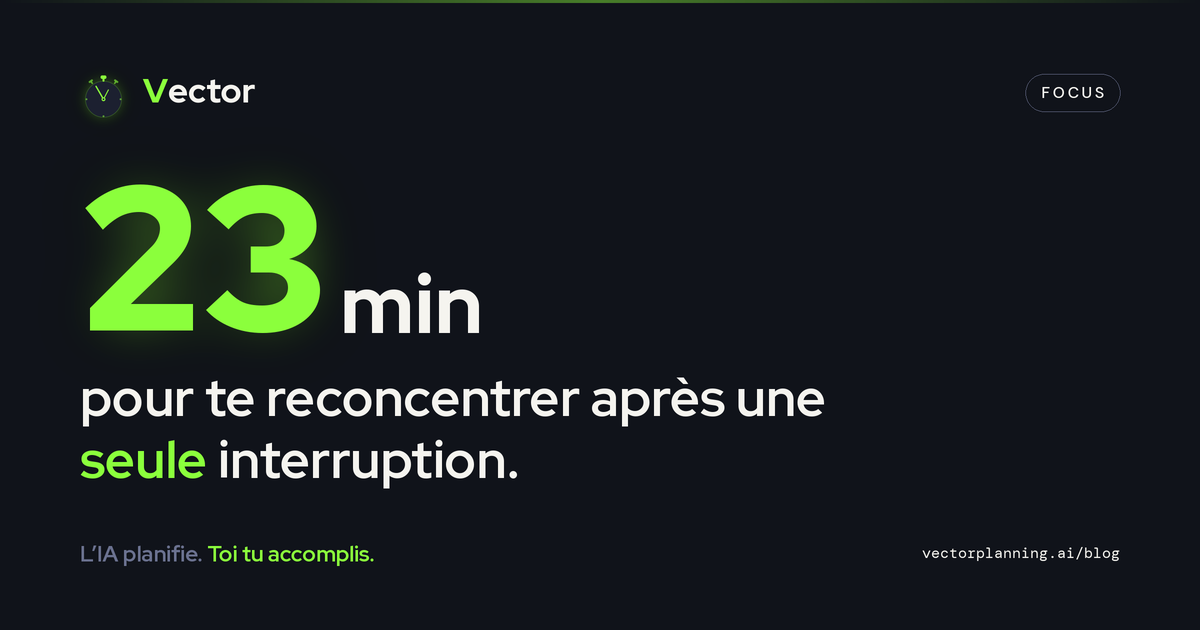
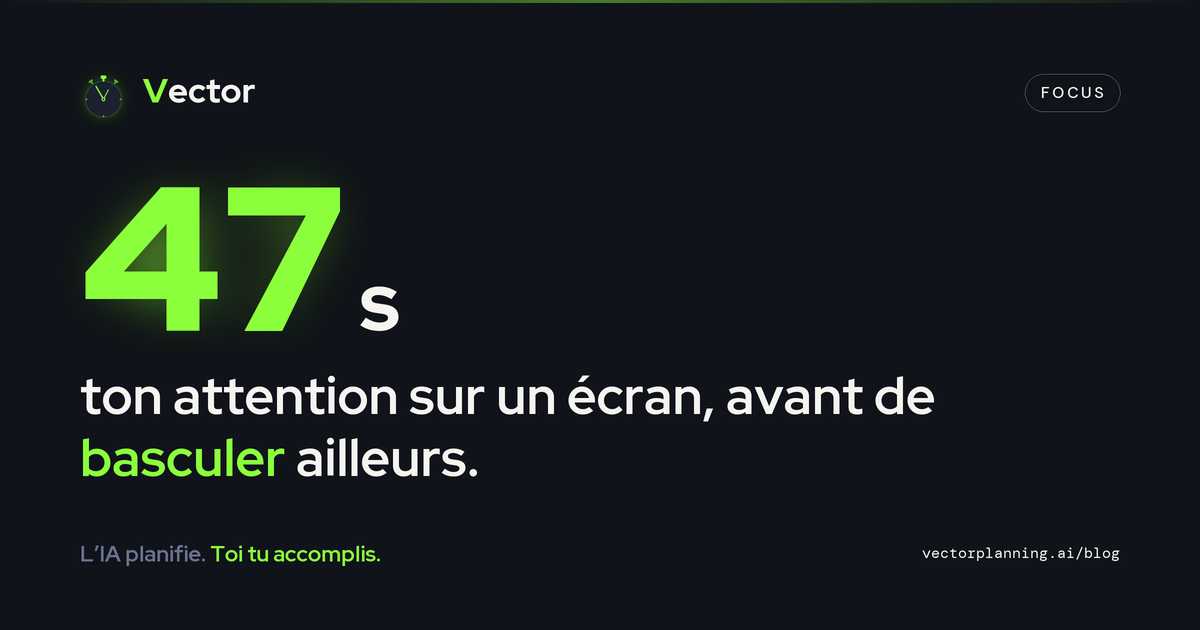
Article le-context-switching : correction factuelle des chiffres
Retrait du mythe « 23 min 15 s » (aucun papier evalue par les pairs, issu d'une interview). Remplace par les chiffres verifies de Gloria Mark : empan attentionnel ~47 s sur un ecran (vs 2 min 30 en 2004), et ~25 min pour revenir a une tache interrompue (No Task Left Behind?, CHI 2005). Encadre + vignette + extrait/meta alignes.

diff --git a/blog/index.html b/blog/index.html
@@ -41,7 +41,7 @@
 <h1>Articles</h1>
 <p class="blog-intro">La réalité d&#x27;être solopreneur, charge mentale, planification, et comment avancer sans s&#x27;épuiser.</p>
 </header>
-<div class="blog-list"><a class="blog-card" href="/blog/solopreneur-change-outil-tous-les-3-mois/"><span class="blog-card-media"><img src="/blog/solopreneur-change-outil-tous-les-3-mois/og.png" alt="" loading="lazy" width="1200" height="630"/></span><span class="blog-card-body"><span class="blog-card-meta">11 mai 2026 · 6 min de lecture</span><span class="blog-card-title">Tu n&#x27;es pas mauvais en productivité. Tu cherches dans la mauvaise catégorie.</span><span class="blog-card-excerpt">Tu as essayé Notion. Puis ClickUp. Puis Todoist. Le problème n’est pas l’outil, c’est ce qu’on lui demande de faire.</span></span></a><a class="blog-card" href="/blog/anxiete-dimanche-soir-solo/"><span class="blog-card-media"><img src="/blog/anxiete-dimanche-soir-solo/og.png" alt="" loading="lazy" width="1200" height="630"/></span><span class="blog-card-body"><span class="blog-card-meta">9 mai 2026 · 7 min de lecture</span><span class="blog-card-title">Pourquoi l&#x27;anxiété du dimanche soir est pire quand tu es solo</span><span class="blog-card-excerpt">Le dimanche soir d&#x27;un solopreneur n&#x27;est pas comme celui d&#x27;un salarié. Tu n&#x27;anticipes pas un patron, tu anticipes un vide. Voici pourquoi, et ce qui aide vraiment.</span></span></a><a class="blog-card" href="/blog/le-burnout-du-solopreneur/"><span class="blog-card-media"><img src="/blog/le-burnout-du-solopreneur/og.png" alt="" loading="lazy" width="1200" height="630"/></span><span class="blog-card-body"><span class="blog-card-meta">7 mai 2026 · 7 min de lecture</span><span class="blog-card-title">Le burnout du solopreneur n&#x27;est pas une question d&#x27;heures (et personne ne te le dit)</span><span class="blog-card-excerpt">Tu réduis tes heures, tu prends un assistant virtuel, tu fais des pauses, et tu restes épuisé. Le burnout du solopreneur ne se mesure pas en heures. Voici ce qu&#x27;il est vraiment.</span></span></a><a class="blog-card" href="/blog/la-croissance-a-tout-prix/"><span class="blog-card-media"><img src="/blog/la-croissance-a-tout-prix/og.png" alt="" loading="lazy" width="1200" height="630"/></span><span class="blog-card-body"><span class="blog-card-meta">5 mai 2026 · 7 min de lecture</span><span class="blog-card-title">Pourquoi les solopreneurs ne veulent pas tous la croissance à tout prix</span><span class="blog-card-excerpt">Tu te sens coupable de ne pas vouloir la croissance à tout prix ? Cette résistance n&#x27;est pas un manque d&#x27;ambition, c&#x27;est souvent l&#x27;intuition la plus lucide que tu puisses avoir.</span></span></a><a class="blog-card" href="/blog/le-context-switching/"><span class="blog-card-media"><img src="/blog/le-context-switching/og.png" alt="" loading="lazy" width="1200" height="630"/></span><span class="blog-card-body"><span class="blog-card-meta">3 mai 2026 · 6 min de lecture</span><span class="blog-card-title">Context switching : pourquoi tu n&#x27;arrives jamais à vraiment finir quelque chose</span><span class="blog-card-excerpt">Il y a un coût invisible dans tes journées. 23 minutes de concentration perdue à chaque interruption, 50 transitions par jour. Voici pourquoi le context switching détruit la productivité des solopreneurs, et ce qui change vraiment.</span></span></a><a class="blog-card" href="/blog/la-solitude-du-solopreneur/"><span class="blog-card-media"><img src="/blog/la-solitude-du-solopreneur/og.png" alt="" loading="lazy" width="1200" height="630"/></span><span class="blog-card-body"><span class="blog-card-meta">1 mai 2026 · 7 min de lecture</span><span class="blog-card-title">La solitude du solopreneur : la partie qu&#x27;on ne montre pas sur Instagram</span><span class="blog-card-excerpt">Il y a une image qui circule dans la culture solopreneur, un bureau bien rangé, des chiffres qui montent. Ce qu&#x27;elle ne montre pas, c&#x27;est la solitude au cœur même de la liberté choisie.</span></span></a><a class="blog-card" href="/blog/pourquoi-tu-charges-encore-trop-peu/"><span class="blog-card-media"><img src="/blog/pourquoi-tu-charges-encore-trop-peu/og.png" alt="" loading="lazy" width="1200" height="630"/></span><span class="blog-card-body"><span class="blog-card-meta">30 avril 2026 · 6 min de lecture</span><span class="blog-card-title">Pourquoi tu charges encore trop peu, et ce n&#x27;est pas un problème de math</span><span class="blog-card-excerpt">Tu connais ta valeur. Tu as fait les calculs. Et pourtant, la main tremble avant d&#x27;appuyer sur Envoyer. Ce blocage n&#x27;est pas un problème de pricing, c&#x27;est un problème d&#x27;identité.</span></span></a><a class="blog-card" href="/blog/ai-fatigue-12-outils-ia/"><span class="blog-card-media"><img src="/blog/ai-fatigue-12-outils-ia/og.png" alt="" loading="lazy" width="1200" height="630"/></span><span class="blog-card-body"><span class="blog-card-meta">28 avril 2026 · 6 min de lecture</span><span class="blog-card-title">AI fatigue : j&#x27;ai adopté 12 outils IA pour aller plus vite, je n&#x27;ai jamais été aussi épuisé</span><span class="blog-card-excerpt">Chaque outil promet de te faire gagner du temps. Mais plus tu en adoptes, plus ta charge mentale augmente. Voici pourquoi, et ce que ça dit sur ce que l&#x27;IA devrait vraiment faire pour les solopreneurs.</span></span></a><a class="blog-card" href="/blog/pourquoi-jai-construit-vector/"><span class="blog-card-media"><img src="/blog/pourquoi-jai-construit-vector/og.png" alt="" loading="lazy" width="1200" height="630"/></span><span class="blog-card-body"><span class="blog-card-meta">24 avril 2026 · 5 min de lecture</span><span class="blog-card-title">Pourquoi j&#x27;ai construit Vector</span><span class="blog-card-excerpt">Ce n&#x27;est pas une histoire de technologie. C&#x27;est une histoire d&#x27;un mardi soir à 22h, d&#x27;une liste de 40 tâches éparpillées partout, et d&#x27;une décision de ne plus jamais gérer une entreprise avec sa mémoire.</span></span></a><a class="blog-card" href="/blog/combien-de-temps-devrait-prendre-la-gestion-de-projet/"><span class="blog-card-media"><img src="/blog/combien-de-temps-devrait-prendre-la-gestion-de-projet/og.png" alt="" loading="lazy" width="1200" height="630"/></span><span class="blog-card-body"><span class="blog-card-meta">20 avril 2026 · 5 min de lecture</span><span class="blog-card-title">Combien de temps devrait prendre ta gestion de projet ? (Spoiler : moins que tu crois)</span><span class="blog-card-excerpt">La plupart des solopreneurs consacrent 130 heures par an à gérer leurs tâches, pas à les faire. Voici pourquoi, et comment récupérer ce temps.</span></span></a><a class="blog-card" href="/blog/le-probleme-avec-les-to-do-lists/"><span class="blog-card-media"><img src="/blog/le-probleme-avec-les-to-do-lists/og.png" alt="" loading="lazy" width="1200" height="630"/></span><span class="blog-card-body"><span class="blog-card-meta">17 avril 2026 · 5 min de lecture</span><span class="blog-card-title">Le problème avec les to-do lists (et pourquoi les solopreneurs abandonnent)</span><span class="blog-card-excerpt">Tu n&#x27;as pas abandonné ta to-do list parce que tu manques de discipline. Tu l&#x27;as abandonnée parce qu&#x27;elle était conçue pour des équipes, pas pour toi.</span></span></a><a class="blog-card" href="/blog/pourquoi-les-solopreneurs-oublient-des-taches/"><span class="blog-card-media"><img src="/blog/pourquoi-les-solopreneurs-oublient-des-taches/og.png" alt="" loading="lazy" width="1200" height="630"/></span><span class="blog-card-body"><span class="blog-card-meta">15 avril 2026 · 5 min de lecture</span><span class="blog-card-title">Pourquoi les solopreneurs oublient des tâches (et comment éviter que ça change tout)</span><span class="blog-card-excerpt">Si tu oublies régulièrement des tâches importantes, le problème n&#x27;est probablement pas un manque de discipline, c&#x27;est ton système qui dépend encore trop de ta mémoire.</span></span></a></div>
+<div class="blog-list"><a class="blog-card" href="/blog/solopreneur-change-outil-tous-les-3-mois/"><span class="blog-card-media"><img src="/blog/solopreneur-change-outil-tous-les-3-mois/og.png" alt="" loading="lazy" width="1200" height="630"/></span><span class="blog-card-body"><span class="blog-card-meta">11 mai 2026 · 6 min de lecture</span><span class="blog-card-title">Tu n&#x27;es pas mauvais en productivité. Tu cherches dans la mauvaise catégorie.</span><span class="blog-card-excerpt">Tu as essayé Notion. Puis ClickUp. Puis Todoist. Le problème n’est pas l’outil, c’est ce qu’on lui demande de faire.</span></span></a><a class="blog-card" href="/blog/anxiete-dimanche-soir-solo/"><span class="blog-card-media"><img src="/blog/anxiete-dimanche-soir-solo/og.png" alt="" loading="lazy" width="1200" height="630"/></span><span class="blog-card-body"><span class="blog-card-meta">9 mai 2026 · 7 min de lecture</span><span class="blog-card-title">Pourquoi l&#x27;anxiété du dimanche soir est pire quand tu es solo</span><span class="blog-card-excerpt">Le dimanche soir d&#x27;un solopreneur n&#x27;est pas comme celui d&#x27;un salarié. Tu n&#x27;anticipes pas un patron, tu anticipes un vide. Voici pourquoi, et ce qui aide vraiment.</span></span></a><a class="blog-card" href="/blog/le-burnout-du-solopreneur/"><span class="blog-card-media"><img src="/blog/le-burnout-du-solopreneur/og.png" alt="" loading="lazy" width="1200" height="630"/></span><span class="blog-card-body"><span class="blog-card-meta">7 mai 2026 · 7 min de lecture</span><span class="blog-card-title">Le burnout du solopreneur n&#x27;est pas une question d&#x27;heures (et personne ne te le dit)</span><span class="blog-card-excerpt">Tu réduis tes heures, tu prends un assistant virtuel, tu fais des pauses, et tu restes épuisé. Le burnout du solopreneur ne se mesure pas en heures. Voici ce qu&#x27;il est vraiment.</span></span></a><a class="blog-card" href="/blog/la-croissance-a-tout-prix/"><span class="blog-card-media"><img src="/blog/la-croissance-a-tout-prix/og.png" alt="" loading="lazy" width="1200" height="630"/></span><span class="blog-card-body"><span class="blog-card-meta">5 mai 2026 · 7 min de lecture</span><span class="blog-card-title">Pourquoi les solopreneurs ne veulent pas tous la croissance à tout prix</span><span class="blog-card-excerpt">Tu te sens coupable de ne pas vouloir la croissance à tout prix ? Cette résistance n&#x27;est pas un manque d&#x27;ambition, c&#x27;est souvent l&#x27;intuition la plus lucide que tu puisses avoir.</span></span></a><a class="blog-card" href="/blog/le-context-switching/"><span class="blog-card-media"><img src="/blog/le-context-switching/og.png" alt="" loading="lazy" width="1200" height="630"/></span><span class="blog-card-body"><span class="blog-card-meta">3 mai 2026 · 6 min de lecture</span><span class="blog-card-title">Context switching : pourquoi tu n&#x27;arrives jamais à vraiment finir quelque chose</span><span class="blog-card-excerpt">Il y a un coût invisible dans tes journées. Ton attention ne tient que 47 secondes sur un écran, et il faut en moyenne 25 minutes pour revenir à une tâche interrompue. Voici pourquoi le context switching détruit la productivité des solopreneurs, et ce qui change vraiment.</span></span></a><a class="blog-card" href="/blog/la-solitude-du-solopreneur/"><span class="blog-card-media"><img src="/blog/la-solitude-du-solopreneur/og.png" alt="" loading="lazy" width="1200" height="630"/></span><span class="blog-card-body"><span class="blog-card-meta">1 mai 2026 · 7 min de lecture</span><span class="blog-card-title">La solitude du solopreneur : la partie qu&#x27;on ne montre pas sur Instagram</span><span class="blog-card-excerpt">Il y a une image qui circule dans la culture solopreneur, un bureau bien rangé, des chiffres qui montent. Ce qu&#x27;elle ne montre pas, c&#x27;est la solitude au cœur même de la liberté choisie.</span></span></a><a class="blog-card" href="/blog/pourquoi-tu-charges-encore-trop-peu/"><span class="blog-card-media"><img src="/blog/pourquoi-tu-charges-encore-trop-peu/og.png" alt="" loading="lazy" width="1200" height="630"/></span><span class="blog-card-body"><span class="blog-card-meta">30 avril 2026 · 6 min de lecture</span><span class="blog-card-title">Pourquoi tu charges encore trop peu, et ce n&#x27;est pas un problème de math</span><span class="blog-card-excerpt">Tu connais ta valeur. Tu as fait les calculs. Et pourtant, la main tremble avant d&#x27;appuyer sur Envoyer. Ce blocage n&#x27;est pas un problème de pricing, c&#x27;est un problème d&#x27;identité.</span></span></a><a class="blog-card" href="/blog/ai-fatigue-12-outils-ia/"><span class="blog-card-media"><img src="/blog/ai-fatigue-12-outils-ia/og.png" alt="" loading="lazy" width="1200" height="630"/></span><span class="blog-card-body"><span class="blog-card-meta">28 avril 2026 · 6 min de lecture</span><span class="blog-card-title">AI fatigue : j&#x27;ai adopté 12 outils IA pour aller plus vite, je n&#x27;ai jamais été aussi épuisé</span><span class="blog-card-excerpt">Chaque outil promet de te faire gagner du temps. Mais plus tu en adoptes, plus ta charge mentale augmente. Voici pourquoi, et ce que ça dit sur ce que l&#x27;IA devrait vraiment faire pour les solopreneurs.</span></span></a><a class="blog-card" href="/blog/pourquoi-jai-construit-vector/"><span class="blog-card-media"><img src="/blog/pourquoi-jai-construit-vector/og.png" alt="" loading="lazy" width="1200" height="630"/></span><span class="blog-card-body"><span class="blog-card-meta">24 avril 2026 · 5 min de lecture</span><span class="blog-card-title">Pourquoi j&#x27;ai construit Vector</span><span class="blog-card-excerpt">Ce n&#x27;est pas une histoire de technologie. C&#x27;est une histoire d&#x27;un mardi soir à 22h, d&#x27;une liste de 40 tâches éparpillées partout, et d&#x27;une décision de ne plus jamais gérer une entreprise avec sa mémoire.</span></span></a><a class="blog-card" href="/blog/combien-de-temps-devrait-prendre-la-gestion-de-projet/"><span class="blog-card-media"><img src="/blog/combien-de-temps-devrait-prendre-la-gestion-de-projet/og.png" alt="" loading="lazy" width="1200" height="630"/></span><span class="blog-card-body"><span class="blog-card-meta">20 avril 2026 · 5 min de lecture</span><span class="blog-card-title">Combien de temps devrait prendre ta gestion de projet ? (Spoiler : moins que tu crois)</span><span class="blog-card-excerpt">La plupart des solopreneurs consacrent 130 heures par an à gérer leurs tâches, pas à les faire. Voici pourquoi, et comment récupérer ce temps.</span></span></a><a class="blog-card" href="/blog/le-probleme-avec-les-to-do-lists/"><span class="blog-card-media"><img src="/blog/le-probleme-avec-les-to-do-lists/og.png" alt="" loading="lazy" width="1200" height="630"/></span><span class="blog-card-body"><span class="blog-card-meta">17 avril 2026 · 5 min de lecture</span><span class="blog-card-title">Le problème avec les to-do lists (et pourquoi les solopreneurs abandonnent)</span><span class="blog-card-excerpt">Tu n&#x27;as pas abandonné ta to-do list parce que tu manques de discipline. Tu l&#x27;as abandonnée parce qu&#x27;elle était conçue pour des équipes, pas pour toi.</span></span></a><a class="blog-card" href="/blog/pourquoi-les-solopreneurs-oublient-des-taches/"><span class="blog-card-media"><img src="/blog/pourquoi-les-solopreneurs-oublient-des-taches/og.png" alt="" loading="lazy" width="1200" height="630"/></span><span class="blog-card-body"><span class="blog-card-meta">15 avril 2026 · 5 min de lecture</span><span class="blog-card-title">Pourquoi les solopreneurs oublient des tâches (et comment éviter que ça change tout)</span><span class="blog-card-excerpt">Si tu oublies régulièrement des tâches importantes, le problème n&#x27;est probablement pas un manque de discipline, c&#x27;est ton système qui dépend encore trop de ta mémoire.</span></span></a></div>
 </main>
 <script src="/analytics.js"></script>
 <script src="/site-chrome.js"></script>

diff --git a/en/blog/index.html b/en/blog/index.html
@@ -41,7 +41,7 @@
 <h1>Articles</h1>
 <p class="blog-intro">The reality of going solo, mental load, planning, and how to move forward without burning out.</p>
 </header>
-<div class="blog-list"><a class="blog-card" href="/en/blog/solopreneur-tool-switching-cycle/"><span class="blog-card-media"><img src="/en/blog/solopreneur-tool-switching-cycle/og.png" alt="" loading="lazy" width="1200" height="630"/></span><span class="blog-card-body"><span class="blog-card-meta">May 11, 2026 · 6 min read</span><span class="blog-card-title">You&#x27;re not bad at productivity. You&#x27;re looking in the wrong product category.</span><span class="blog-card-excerpt">You’ve tried Notion. Then ClickUp. Then Todoist. The problem isn’t the tool, it’s what you’re asking it to do.</span></span></a><a class="blog-card" href="/en/blog/sunday-scaries-when-youre-solo/"><span class="blog-card-media"><img src="/en/blog/sunday-scaries-when-youre-solo/og.png" alt="" loading="lazy" width="1200" height="630"/></span><span class="blog-card-body"><span class="blog-card-meta">May 9, 2026 · 7 min read</span><span class="blog-card-title">Why Sunday scaries hit harder when you&#x27;re solo</span><span class="blog-card-excerpt">A solopreneur&#x27;s Sunday evening isn&#x27;t like an employee&#x27;s. You&#x27;re not anticipating a boss, you&#x27;re anticipating a void. Here&#x27;s why, and what actually helps.</span></span></a><a class="blog-card" href="/en/blog/solopreneur-burnout-isnt-about-hours/"><span class="blog-card-media"><img src="/en/blog/solopreneur-burnout-isnt-about-hours/og.png" alt="" loading="lazy" width="1200" height="630"/></span><span class="blog-card-body"><span class="blog-card-meta">May 7, 2026 · 7 min read</span><span class="blog-card-title">Solopreneur burnout isn&#x27;t about hours (and nobody tells you that)</span><span class="blog-card-excerpt">You cut your hours, hire a VA, take breaks, and you&#x27;re still exhausted. Solopreneur burnout isn&#x27;t measured in hours. Here&#x27;s what it actually is.</span></span></a><a class="blog-card" href="/en/blog/why-not-all-solopreneurs-want-to-scale/"><span class="blog-card-media"><img src="/en/blog/why-not-all-solopreneurs-want-to-scale/og.png" alt="" loading="lazy" width="1200" height="630"/></span><span class="blog-card-body"><span class="blog-card-meta">May 5, 2026 · 7 min read</span><span class="blog-card-title">Why not all solopreneurs (really) want to scale</span><span class="blog-card-excerpt">Feeling guilty for not wanting to scale? That resistance isn&#x27;t a lack of ambition, it&#x27;s often the most lucid instinct you have.</span></span></a><a class="blog-card" href="/en/blog/context-switching/"><span class="blog-card-media"><img src="/en/blog/context-switching/og.png" alt="" loading="lazy" width="1200" height="630"/></span><span class="blog-card-body"><span class="blog-card-meta">May 3, 2026 · 6 min read</span><span class="blog-card-title">Context switching: why you never quite finish anything</span><span class="blog-card-excerpt">There&#x27;s an invisible cost in your workdays. 23 minutes of lost focus per interruption, 50+ context switches per day. Here&#x27;s why context switching destroys solopreneur productivity, and what actually changes it.</span></span></a><a class="blog-card" href="/en/blog/the-solopreneurs-loneliness/"><span class="blog-card-media"><img src="/en/blog/the-solopreneurs-loneliness/og.png" alt="" loading="lazy" width="1200" height="630"/></span><span class="blog-card-body"><span class="blog-card-meta">May 1, 2026 · 7 min read</span><span class="blog-card-title">The solopreneur&#x27;s loneliness: the part nobody shows on Instagram</span><span class="blog-card-excerpt">There&#x27;s an image that circulates in solopreneur culture, a clean desk, numbers going up. What it doesn&#x27;t show is the loneliness at the heart of the freedom you chose.</span></span></a><a class="blog-card" href="/en/blog/why-youre-still-undercharging/"><span class="blog-card-media"><img src="/en/blog/why-youre-still-undercharging/og.png" alt="" loading="lazy" width="1200" height="630"/></span><span class="blog-card-body"><span class="blog-card-meta">April 30, 2026 · 6 min read</span><span class="blog-card-title">Why you&#x27;re still undercharging, and it&#x27;s not a math problem</span><span class="blog-card-excerpt">You know your worth. You&#x27;ve done the math. And yet, your hand trembles before hitting Send. This block isn&#x27;t a pricing problem, it&#x27;s an identity problem.</span></span></a><a class="blog-card" href="/en/blog/ai-fatigue-12-tools/"><span class="blog-card-media"><img src="/en/blog/ai-fatigue-12-tools/og.png" alt="" loading="lazy" width="1200" height="630"/></span><span class="blog-card-body"><span class="blog-card-meta">April 28, 2026 · 6 min read</span><span class="blog-card-title">AI fatigue: I adopted 12 AI tools to move faster, I&#x27;ve never been so exhausted</span><span class="blog-card-excerpt">Every tool promises to save you time. But the more you adopt, the higher your mental load. Here&#x27;s why, and what it says about what AI should really do for solopreneurs.</span></span></a><a class="blog-card" href="/en/blog/why-i-built-vector/"><span class="blog-card-media"><img src="/en/blog/why-i-built-vector/og.png" alt="" loading="lazy" width="1200" height="630"/></span><span class="blog-card-body"><span class="blog-card-meta">April 24, 2026 · 5 min read</span><span class="blog-card-title">Why I built Vector</span><span class="blog-card-excerpt">This isn&#x27;t a technology story. It&#x27;s a Tuesday night at 10 PM, a list of 40 tasks scattered everywhere, and a decision to never manage a business with your memory again.</span></span></a><a class="blog-card" href="/en/blog/how-long-should-project-management-take/"><span class="blog-card-media"><img src="/en/blog/how-long-should-project-management-take/og.png" alt="" loading="lazy" width="1200" height="630"/></span><span class="blog-card-body"><span class="blog-card-meta">April 20, 2026 · 5 min read</span><span class="blog-card-title">How long should project management really take? (Spoiler: less than you think)</span><span class="blog-card-excerpt">Most solopreneurs spend 130 hours a year managing their tasks, not completing them. Here&#x27;s why, and how to reclaim that time.</span></span></a><a class="blog-card" href="/en/blog/the-problem-with-to-do-lists/"><span class="blog-card-media"><img src="/en/blog/the-problem-with-to-do-lists/og.png" alt="" loading="lazy" width="1200" height="630"/></span><span class="blog-card-body"><span class="blog-card-meta">April 17, 2026 · 5 min read</span><span class="blog-card-title">The problem with to-do lists (and why solopreneurs give up)</span><span class="blog-card-excerpt">You didn&#x27;t give up on your to-do list because you lack discipline. You gave up because it was designed for teams, not for you.</span></span></a><a class="blog-card" href="/en/blog/why-solopreneurs-forget-tasks/"><span class="blog-card-media"><img src="/en/blog/why-solopreneurs-forget-tasks/og.png" alt="" loading="lazy" width="1200" height="630"/></span><span class="blog-card-body"><span class="blog-card-meta">April 15, 2026 · 5 min read</span><span class="blog-card-title">Why solopreneurs forget tasks (and how to stop it from changing everything)</span><span class="blog-card-excerpt">If you regularly forget important tasks, the problem probably isn&#x27;t a lack of discipline, it&#x27;s that your system still relies too much on your memory.</span></span></a></div>
+<div class="blog-list"><a class="blog-card" href="/en/blog/solopreneur-tool-switching-cycle/"><span class="blog-card-media"><img src="/en/blog/solopreneur-tool-switching-cycle/og.png" alt="" loading="lazy" width="1200" height="630"/></span><span class="blog-card-body"><span class="blog-card-meta">May 11, 2026 · 6 min read</span><span class="blog-card-title">You&#x27;re not bad at productivity. You&#x27;re looking in the wrong product category.</span><span class="blog-card-excerpt">You’ve tried Notion. Then ClickUp. Then Todoist. The problem isn’t the tool, it’s what you’re asking it to do.</span></span></a><a class="blog-card" href="/en/blog/sunday-scaries-when-youre-solo/"><span class="blog-card-media"><img src="/en/blog/sunday-scaries-when-youre-solo/og.png" alt="" loading="lazy" width="1200" height="630"/></span><span class="blog-card-body"><span class="blog-card-meta">May 9, 2026 · 7 min read</span><span class="blog-card-title">Why Sunday scaries hit harder when you&#x27;re solo</span><span class="blog-card-excerpt">A solopreneur&#x27;s Sunday evening isn&#x27;t like an employee&#x27;s. You&#x27;re not anticipating a boss, you&#x27;re anticipating a void. Here&#x27;s why, and what actually helps.</span></span></a><a class="blog-card" href="/en/blog/solopreneur-burnout-isnt-about-hours/"><span class="blog-card-media"><img src="/en/blog/solopreneur-burnout-isnt-about-hours/og.png" alt="" loading="lazy" width="1200" height="630"/></span><span class="blog-card-body"><span class="blog-card-meta">May 7, 2026 · 7 min read</span><span class="blog-card-title">Solopreneur burnout isn&#x27;t about hours (and nobody tells you that)</span><span class="blog-card-excerpt">You cut your hours, hire a VA, take breaks, and you&#x27;re still exhausted. Solopreneur burnout isn&#x27;t measured in hours. Here&#x27;s what it actually is.</span></span></a><a class="blog-card" href="/en/blog/why-not-all-solopreneurs-want-to-scale/"><span class="blog-card-media"><img src="/en/blog/why-not-all-solopreneurs-want-to-scale/og.png" alt="" loading="lazy" width="1200" height="630"/></span><span class="blog-card-body"><span class="blog-card-meta">May 5, 2026 · 7 min read</span><span class="blog-card-title">Why not all solopreneurs (really) want to scale</span><span class="blog-card-excerpt">Feeling guilty for not wanting to scale? That resistance isn&#x27;t a lack of ambition, it&#x27;s often the most lucid instinct you have.</span></span></a><a class="blog-card" href="/en/blog/context-switching/"><span class="blog-card-media"><img src="/en/blog/context-switching/og.png" alt="" loading="lazy" width="1200" height="630"/></span><span class="blog-card-body"><span class="blog-card-meta">May 3, 2026 · 6 min read</span><span class="blog-card-title">Context switching: why you never quite finish anything</span><span class="blog-card-excerpt">There&#x27;s an invisible cost in your workdays. Your attention holds just 47 seconds on a screen, and it takes about 25 minutes to get back to an interrupted task. Here&#x27;s why context switching destroys solopreneur productivity, and what actually changes it.</span></span></a><a class="blog-card" href="/en/blog/the-solopreneurs-loneliness/"><span class="blog-card-media"><img src="/en/blog/the-solopreneurs-loneliness/og.png" alt="" loading="lazy" width="1200" height="630"/></span><span class="blog-card-body"><span class="blog-card-meta">May 1, 2026 · 7 min read</span><span class="blog-card-title">The solopreneur&#x27;s loneliness: the part nobody shows on Instagram</span><span class="blog-card-excerpt">There&#x27;s an image that circulates in solopreneur culture, a clean desk, numbers going up. What it doesn&#x27;t show is the loneliness at the heart of the freedom you chose.</span></span></a><a class="blog-card" href="/en/blog/why-youre-still-undercharging/"><span class="blog-card-media"><img src="/en/blog/why-youre-still-undercharging/og.png" alt="" loading="lazy" width="1200" height="630"/></span><span class="blog-card-body"><span class="blog-card-meta">April 30, 2026 · 6 min read</span><span class="blog-card-title">Why you&#x27;re still undercharging, and it&#x27;s not a math problem</span><span class="blog-card-excerpt">You know your worth. You&#x27;ve done the math. And yet, your hand trembles before hitting Send. This block isn&#x27;t a pricing problem, it&#x27;s an identity problem.</span></span></a><a class="blog-card" href="/en/blog/ai-fatigue-12-tools/"><span class="blog-card-media"><img src="/en/blog/ai-fatigue-12-tools/og.png" alt="" loading="lazy" width="1200" height="630"/></span><span class="blog-card-body"><span class="blog-card-meta">April 28, 2026 · 6 min read</span><span class="blog-card-title">AI fatigue: I adopted 12 AI tools to move faster, I&#x27;ve never been so exhausted</span><span class="blog-card-excerpt">Every tool promises to save you time. But the more you adopt, the higher your mental load. Here&#x27;s why, and what it says about what AI should really do for solopreneurs.</span></span></a><a class="blog-card" href="/en/blog/why-i-built-vector/"><span class="blog-card-media"><img src="/en/blog/why-i-built-vector/og.png" alt="" loading="lazy" width="1200" height="630"/></span><span class="blog-card-body"><span class="blog-card-meta">April 24, 2026 · 5 min read</span><span class="blog-card-title">Why I built Vector</span><span class="blog-card-excerpt">This isn&#x27;t a technology story. It&#x27;s a Tuesday night at 10 PM, a list of 40 tasks scattered everywhere, and a decision to never manage a business with your memory again.</span></span></a><a class="blog-card" href="/en/blog/how-long-should-project-management-take/"><span class="blog-card-media"><img src="/en/blog/how-long-should-project-management-take/og.png" alt="" loading="lazy" width="1200" height="630"/></span><span class="blog-card-body"><span class="blog-card-meta">April 20, 2026 · 5 min read</span><span class="blog-card-title">How long should project management really take? (Spoiler: less than you think)</span><span class="blog-card-excerpt">Most solopreneurs spend 130 hours a year managing their tasks, not completing them. Here&#x27;s why, and how to reclaim that time.</span></span></a><a class="blog-card" href="/en/blog/the-problem-with-to-do-lists/"><span class="blog-card-media"><img src="/en/blog/the-problem-with-to-do-lists/og.png" alt="" loading="lazy" width="1200" height="630"/></span><span class="blog-card-body"><span class="blog-card-meta">April 17, 2026 · 5 min read</span><span class="blog-card-title">The problem with to-do lists (and why solopreneurs give up)</span><span class="blog-card-excerpt">You didn&#x27;t give up on your to-do list because you lack discipline. You gave up because it was designed for teams, not for you.</span></span></a><a class="blog-card" href="/en/blog/why-solopreneurs-forget-tasks/"><span class="blog-card-media"><img src="/en/blog/why-solopreneurs-forget-tasks/og.png" alt="" loading="lazy" width="1200" height="630"/></span><span class="blog-card-body"><span class="blog-card-meta">April 15, 2026 · 5 min read</span><span class="blog-card-title">Why solopreneurs forget tasks (and how to stop it from changing everything)</span><span class="blog-card-excerpt">If you regularly forget important tasks, the problem probably isn&#x27;t a lack of discipline, it&#x27;s that your system still relies too much on your memory.</span></span></a></div>
 </main>
 <script src="/analytics.js"></script>
 <script src="/site-chrome.js"></script>

diff --git a/blog/le-context-switching/index.html b/blog/le-context-switching/index.html
@@ -3,7 +3,7 @@
 <head>
 <meta charset="utf-8"/>
 <meta content="width=device-width, initial-scale=1.0" name="viewport"/>
-<meta content="Il y a un coût invisible dans tes journées. 23 minutes de concentration perdue à chaque interruption, 50 transitions par jour. Voici pourquoi le context switching détruit la productivité des solopreneurs, et ce qui change vraiment." name="description"/>
+<meta content="Il y a un coût invisible dans tes journées. Ton attention ne tient que 47 secondes sur un écran, et il faut en moyenne 25 minutes pour revenir à une tâche interrompue. Voici pourquoi le context switching détruit la productivité des solopreneurs, et ce qui change vraiment." name="description"/>
 <meta content="index, follow" name="robots"/>
 <title>Context switching : pourquoi tu n&#x27;arrives jamais à vraiment finir quelque chose — Vector</title>
 <link href="https://vectorplanning.ai/blog/le-context-switching/" rel="canonical"/>
@@ -14,12 +14,12 @@
 <meta property="og:site_name" content="Vector"/>
 <meta property="og:locale" content="fr_CA"/>
 <meta property="og:title" content="Context switching : pourquoi tu n&#x27;arrives jamais à vraiment finir quelque chose"/>
-<meta property="og:description" content="Il y a un coût invisible dans tes journées. 23 minutes de concentration perdue à chaque interruption, 50 transitions par jour. Voici pourquoi le context switching détruit la productivité des solopreneurs, et ce qui change vraiment."/>
+<meta property="og:description" content="Il y a un coût invisible dans tes journées. Ton attention ne tient que 47 secondes sur un écran, et il faut en moyenne 25 minutes pour revenir à une tâche interrompue. Voici pourquoi le context switching détruit la productivité des solopreneurs, et ce qui change vraiment."/>
 <meta property="og:url" content="https://vectorplanning.ai/blog/le-context-switching/"/>
 <meta property="og:image" content="https://vectorplanning.ai/blog/le-context-switching/og.png"/>
 <meta name="twitter:card" content="summary_large_image"/>
 <meta name="twitter:title" content="Context switching : pourquoi tu n&#x27;arrives jamais à vraiment finir quelque chose"/>
-<meta name="twitter:description" content="Il y a un coût invisible dans tes journées. 23 minutes de concentration perdue à chaque interruption, 50 transitions par jour. Voici pourquoi le context switching détruit la productivité des solopreneurs, et ce qui change vraiment."/>
+<meta name="twitter:description" content="Il y a un coût invisible dans tes journées. Ton attention ne tient que 47 secondes sur un écran, et il faut en moyenne 25 minutes pour revenir à une tâche interrompue. Voici pourquoi le context switching détruit la productivité des solopreneurs, et ce qui change vraiment."/>
 <meta name="twitter:image" content="https://vectorplanning.ai/blog/le-context-switching/og.png"/>
[1 lines of base64/hex data omitted]
 <link href="https://fonts.googleapis.com/css2?family=Red+Hat+Display:wght@700;800;900&family=DM+Sans:opsz,wght@9..40,400;9..40,500;9..40,600&family=DM+Mono:wght@400&display=swap" rel="stylesheet"/>
@@ -29,7 +29,7 @@
   "@context": "https://schema.org",
   "@type": "BlogPosting",
   "headline": "Context switching : pourquoi tu n'arrives jamais à vraiment finir quelque chose",
-  "description": "Il y a un coût invisible dans tes journées. 23 minutes de concentration perdue à chaque interruption, 50 transitions par jour. Voici pourquoi le context switching détruit la productivité des solopreneurs, et ce qui change vraiment.",
+  "description": "Il y a un coût invisible dans tes journées. Ton attention ne tient que 47 secondes sur un écran, et il faut en moyenne 25 minutes pour revenir à une tâche interrompue. Voici pourquoi le context switching détruit la productivité des solopreneurs, et ce qui change vraiment.",
   "image": "https://vectorplanning.ai/blog/le-context-switching/og.png",
   "datePublished": "2026-05-03",
   "dateModified": "2026-05-03",
@@ -55,7 +55,7 @@
 <body>
 <script>
 window.VECTOR_PAGE = {"page_type": "article", "page_slug": "le-context-switching", "lang": "fr"};
-window.VECTOR_ARTICLE = {"slug": "le-context-switching", "url": "https://vectorplanning.ai/blog/le-context-switching/", "title": "Context switching : pourquoi tu n'arrives jamais à vraiment finir quelque chose", "excerpt": "Il y a un coût invisible dans tes journées. 23 minutes de concentration perdue à chaque interruption, 50 transitions par jour. Voici pourquoi le context switching détruit la productivité des solopreneurs, et ce qui change vraiment.", "lang": "fr"};
+window.VECTOR_ARTICLE = {"slug": "le-context-switching", "url": "https://vectorplanning.ai/blog/le-context-switching/", "title": "Context switching : pourquoi tu n'arrives jamais à vraiment finir quelque chose", "excerpt": "Il y a un coût invisible dans tes journées. Ton attention ne tient que 47 secondes sur un écran, et il faut en moyenne 25 minutes pour revenir à une tâche interrompue. Voici pourquoi le context switching détruit la productivité des solopreneurs, et ce qui change vraiment.", "lang": "fr"};
 </script>
 <main>
 <div class="article-view active" id="article-8">
@@ -73,27 +73,27 @@ window.VECTOR_ARTICLE = {"slug": "le-context-switching", "url": "https://vectorp
 <p>Ce scénario n'est pas un problème de discipline. C'est un problème de <strong>context switching</strong>, et pour les solopreneurs, c'est structurellement inévitable si l'environnement de travail n'est pas conçu pour le contrer.</p>
 
 <h2>Ce que la recherche dit, et que personne ne lit</h2>
-<p>En 2001, une étude de Gloria Mark à l'Université de Californie Irvine a produit un chiffre qui reste l'un des plus cités en psychologie cognitive appliquée au travail.</p>
+<p>Depuis le début des années 2000, Gloria Mark, professeure à l'Université de Californie à Irvine, mesure ce qui arrive à notre attention au travail. Ses chiffres comptent parmi les plus cités en psychologie cognitive, et ils sont brutaux.</p>
 
 <div class="stat-single stat-block">
-  <div class="stat-number">23<span class="stat-unit"> min</span></div>
-  <div class="stat-label">c'est le temps moyen dont le cerveau humain a besoin pour retrouver un état de concentration profonde après une interruption</div>
+  <div class="stat-number">47<span class="stat-unit"> s</span></div>
+  <div class="stat-label">c'est la durée moyenne pendant laquelle ton attention reste sur un écran avant de basculer ailleurs. En 2004, c'était deux minutes et demie.</div>
 </div>
 
-<p>Vingt-trois minutes. Pour chaque transition. Et les recherches plus récentes sont encore moins encourageantes&nbsp;: dans un environnement de travail fragmenté, un travailleur peut changer de tâche ou de contexte <strong>plus de 50 fois par jour</strong>. La majorité de ces transitions sont auto-infligées, une notification, une pensée parasite, une «&nbsp;vérification rapide&nbsp;» qui ne l'est jamais vraiment.</p>
+<p>Quarante-sept secondes. Et la plupart de ces bascules sont auto-infligées&nbsp;: une notification, une pensée parasite, une «&nbsp;vérification rapide&nbsp;» qui ne l'est jamais vraiment. Mais le plus coûteux, ce n'est pas la bascule, c'est le retour&nbsp;: quand une vraie interruption te sort d'une tâche, tu n'y reviens pas avant 25 minutes en moyenne, le temps de passer par deux ou trois autres choses. La tâche d'origine, elle, attend.</p>
 <p>Le résultat&nbsp;: la grande majorité du temps de travail est consacrée à des tâches en mode partiel, démarrées, interrompues, reprises, re-interrompues. La concentration profonde, celle qui produit les vraies avancées, n'est présente que pendant une fraction de la journée.</p>
 
 <div class="stat-comparison stat-block">
   <div class="stat-compare-item">
-    <div class="stat-compare-label">Transitions / jour</div>
-    <div class="stat-compare-number muted">50+</div>
+    <div class="stat-compare-label">Attention sur un écran</div>
+    <div class="stat-compare-number muted">47 s</div>
     <div class="stat-compare-sub">changements de contexte</div>
   </div>
   <div class="stat-compare-divider">×</div>
   <div class="stat-compare-item">
-    <div class="stat-compare-label highlight">Coût par transition</div>
-    <div class="stat-compare-number">23 min</div>
-    <div class="stat-compare-sub">pour retrouver le focus</div>
+    <div class="stat-compare-label highlight">Retour à une tâche interrompue</div>
+    <div class="stat-compare-number">25 min</div>
+    <div class="stat-compare-sub">après 2-3 autres tâches</div>
   </div>
 </div>
 

diff --git a/en/blog/context-switching/index.html b/en/blog/context-switching/index.html
@@ -3,7 +3,7 @@
 <head>
 <meta charset="utf-8"/>
 <meta content="width=device-width, initial-scale=1.0" name="viewport"/>
-<meta content="There&#x27;s an invisible cost in your workdays. 23 minutes of lost focus per interruption, 50+ context switches per day. Here&#x27;s why context switching destroys solopreneur productivity, and what actually changes it." name="description"/>
+<meta content="There&#x27;s an invisible cost in your workdays. Your attention holds just 47 seconds on a screen, and it takes about 25 minutes to get back to an interrupted task. Here&#x27;s why context switching destroys solopreneur productivity, and what actually changes it." name="description"/>
 <meta content="index, follow" name="robots"/>
 <title>Context switching: why you never quite finish anything — Vector</title>
 <link href="https://vectorplanning.ai/en/blog/context-switching/" rel="canonical"/>
@@ -14,12 +14,12 @@
 <meta property="og:site_name" content="Vector"/>
 <meta property="og:locale" content="en_US"/>
 <meta property="og:title" content="Context switching: why you never quite finish anything"/>
-<meta property="og:description" content="There&#x27;s an invisible cost in your workdays. 23 minutes of lost focus per interruption, 50+ context switches per day. Here&#x27;s why context switching destroys solopreneur productivity, and what actually changes it."/>
+<meta property="og:description" content="There&#x27;s an invisible cost in your workdays. Your attention holds just 47 seconds on a screen, and it takes about 25 minutes to get back to an interrupted task. Here&#x27;s why context switching destroys solopreneur productivity, and what actually changes it."/>
 <meta property="og:url" content="https://vectorplanning.ai/en/blog/context-switching/"/>
 <meta property="og:image" content="https://vectorplanning.ai/en/blog/context-switching/og.png"/>
 <meta name="twitter:card" content="summary_large_image"/>
 <meta name="twitter:title" content="Context switching: why you never quite finish anything"/>
-<meta name="twitter:description" content="There&#x27;s an invisible cost in your workdays. 23 minutes of lost focus per interruption, 50+ context switches per day. Here&#x27;s why context switching destroys solopreneur productivity, and what actually changes it."/>
+<meta name="twitter:description" content="There&#x27;s an invisible cost in your workdays. Your attention holds just 47 seconds on a screen, and it takes about 25 minutes to get back to an interrupted task. Here&#x27;s why context switching destroys solopreneur productivity, and what actually changes it."/>
 <meta name="twitter:image" content="https://vectorplanning.ai/en/blog/context-switching/og.png"/>
[1 lines of base64/hex data omitted]
 <link href="https://fonts.googleapis.com/css2?family=Red+Hat+Display:wght@700;800;900&family=DM+Sans:opsz,wght@9..40,400;9..40,500;9..40,600&family=DM+Mono:wght@400&display=swap" rel="stylesheet"/>
@@ -29,7 +29,7 @@
   "@context": "https://schema.org",
   "@type": "BlogPosting",
   "headline": "Context switching: why you never quite finish anything",
-  "description": "There's an invisible cost in your workdays. 23 minutes of lost focus per interruption, 50+ context switches per day. Here's why context switching destroys solopreneur productivity, and what actually changes it.",
+  "description": "There's an invisible cost in your workdays. Your attention holds just 47 seconds on a screen, and it takes about 25 minutes to get back to an interrupted task. Here's why context switching destroys solopreneur productivity, and what actually changes it.",
   "image": "https://vectorplanning.ai/en/blog/context-switching/og.png",
   "datePublished": "2026-05-03",
   "dateModified": "2026-05-03",
@@ -55,7 +55,7 @@
 <body>
 <script>
 window.VECTOR_PAGE = {"page_type": "article", "page_slug": "context-switching", "lang": "en"};
-window.VECTOR_ARTICLE = {"slug": "context-switching", "url": "https://vectorplanning.ai/en/blog/context-switching/", "title": "Context switching: why you never quite finish anything", "excerpt": "There's an invisible cost in your workdays. 23 minutes of lost focus per interruption, 50+ context switches per day. Here's why context switching destroys solopreneur productivity, and what actually changes it.", "lang": "en"};
+window.VECTOR_ARTICLE = {"slug": "context-switching", "url": "https://vectorplanning.ai/en/blog/context-switching/", "title": "Context switching: why you never quite finish anything", "excerpt": "There's an invisible cost in your workdays. Your attention holds just 47 seconds on a screen, and it takes about 25 minutes to get back to an interrupted task. Here's why context switching destroys solopreneur productivity, and what actually changes it.", "lang": "en"};
 </script>
 <main>
 <div class="article-view active" id="article-8">
@@ -73,27 +73,27 @@ window.VECTOR_ARTICLE = {"slug": "context-switching", "url": "https://vectorplan
 <p>This scenario isn't a discipline problem. It's a <strong>context switching</strong> problem, and for solopreneurs, it's structurally inevitable if the work environment isn't designed to counter it.</p>
 
 <h2>What the research says, and nobody reads</h2>
-<p>In 2001, a study by Gloria Mark at the University of California Irvine produced a number that remains one of the most cited in cognitive psychology applied to work.</p>
+<p>Since the early 2000s, Gloria Mark, a professor at the University of California, Irvine, has measured what happens to our attention at work. Her numbers are among the most cited in cognitive psychology, and they're brutal.</p>
 
 <div class="stat-single stat-block">
-  <div class="stat-number">23<span class="stat-unit"> min</span></div>
-  <div class="stat-label">the average time the human brain needs to return to a state of deep focus after an interruption</div>
+  <div class="stat-number">47<span class="stat-unit"> s</span></div>
+  <div class="stat-label">the average time your attention stays on a screen before switching away. In 2004, it was two and a half minutes.</div>
 </div>
 
-<p>Twenty-three minutes. Per transition. And more recent research is even less encouraging: in a fragmented work environment, a worker can switch tasks or context <strong>more than 50 times per day</strong>. Most of these transitions are self-inflicted, a notification, a stray thought, a "quick check" that never is.</p>
+<p>Forty-seven seconds. And most of these switches are self-inflicted: a notification, a stray thought, a "quick check" that never is. But the costly part isn't the switch, it's the return: when a real interruption pulls you off a task, you don't get back to it for about 25 minutes on average, after passing through two or three other things. The original task just waits.</p>
 <p>The result: the vast majority of work time is spent on tasks in partial mode, started, interrupted, resumed, interrupted again. Deep concentration, the kind that produces real progress, is present for only a fraction of the day.</p>
 
 <div class="stat-comparison stat-block">
   <div class="stat-compare-item">
-    <div class="stat-compare-label">Switches / day</div>
-    <div class="stat-compare-number muted">50+</div>
+    <div class="stat-compare-label">Attention on a screen</div>
+    <div class="stat-compare-number muted">47 s</div>
     <div class="stat-compare-sub">context changes</div>
   </div>
   <div class="stat-compare-divider">&times;</div>
   <div class="stat-compare-item">
-    <div class="stat-compare-label highlight">Cost per switch</div>
-    <div class="stat-compare-number">23 min</div>
-    <div class="stat-compare-sub">to regain focus</div>
+    <div class="stat-compare-label highlight">Back to an interrupted task</div>
+    <div class="stat-compare-number">25 min</div>
+    <div class="stat-compare-sub">after 2-3 other tasks</div>
   </div>
 </div>
 
